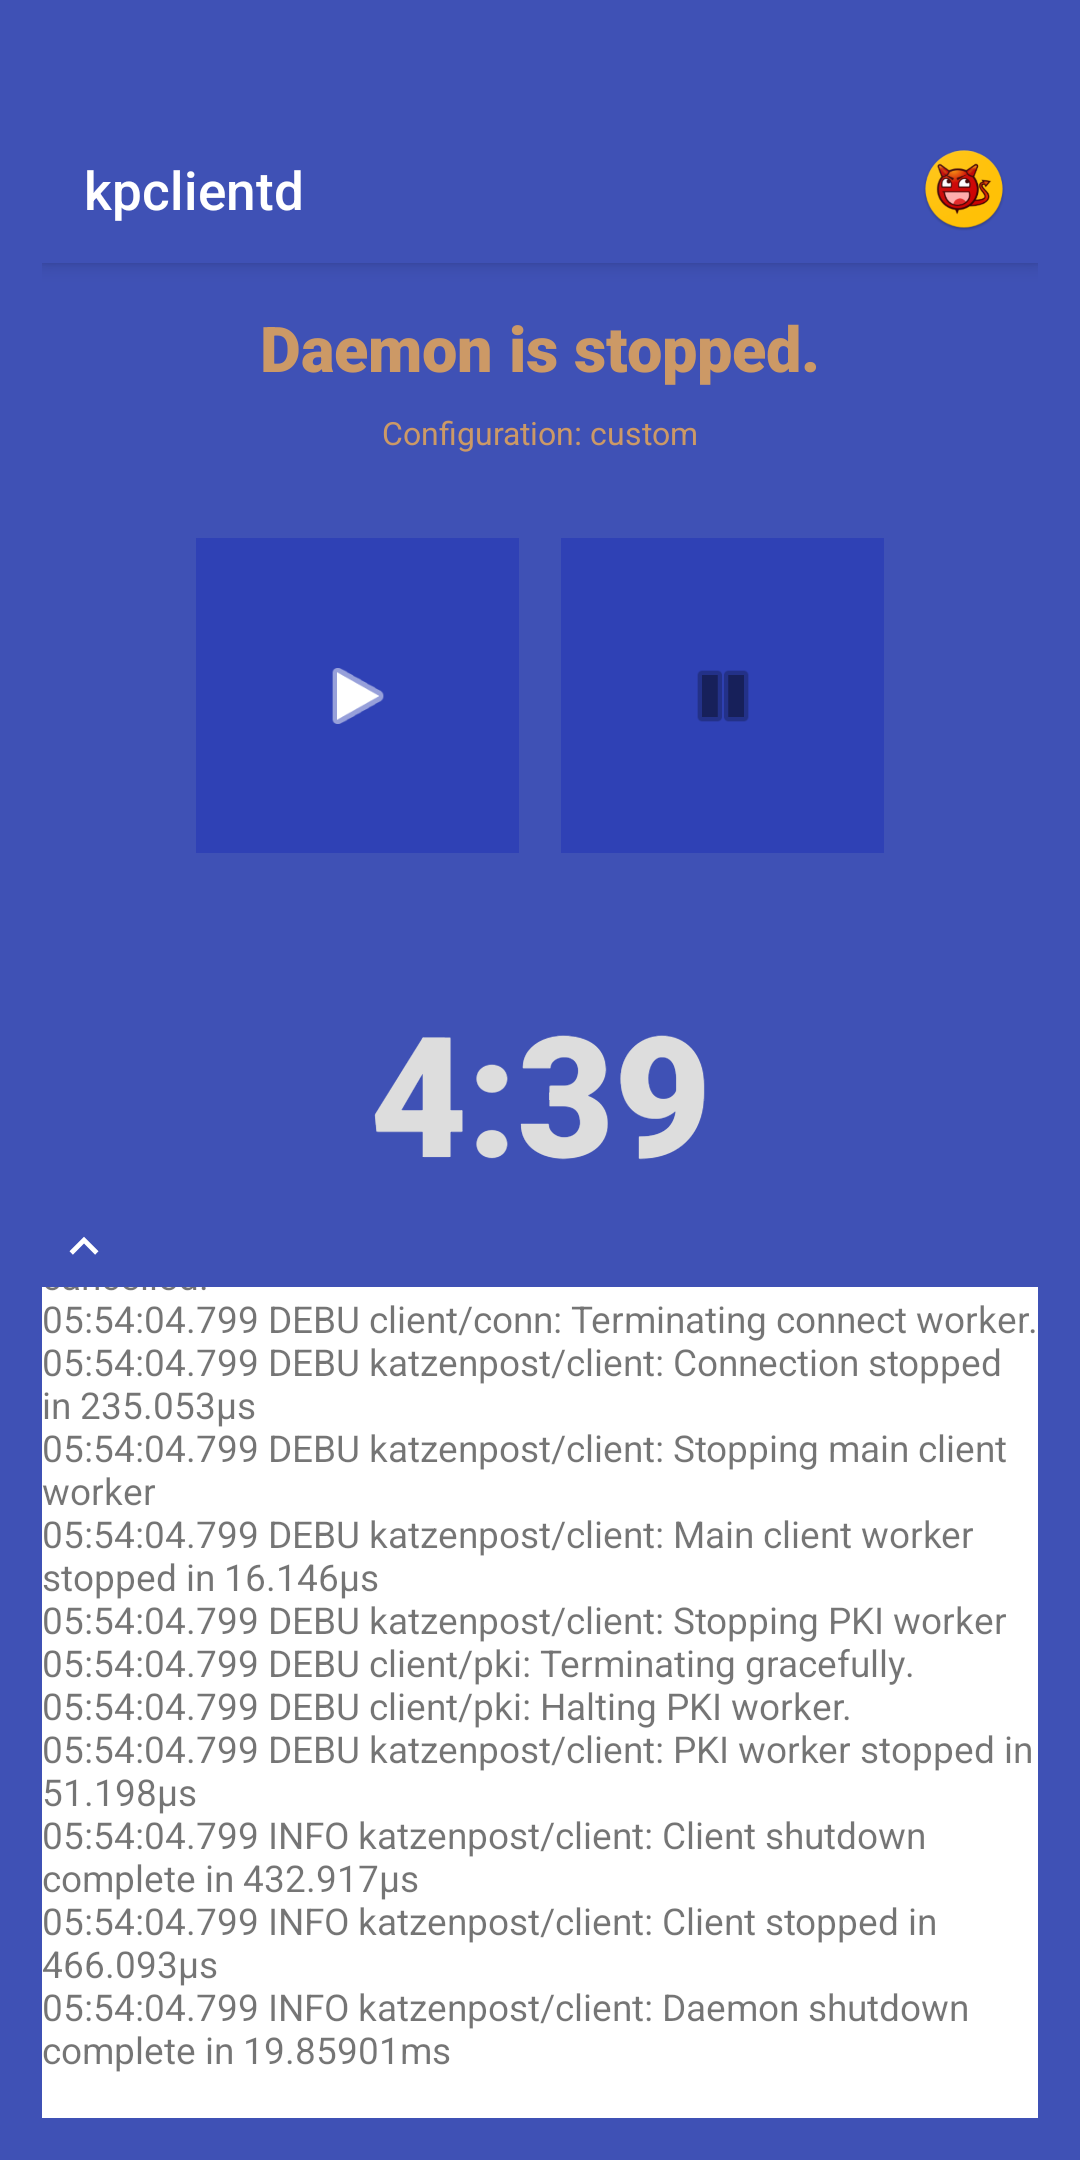
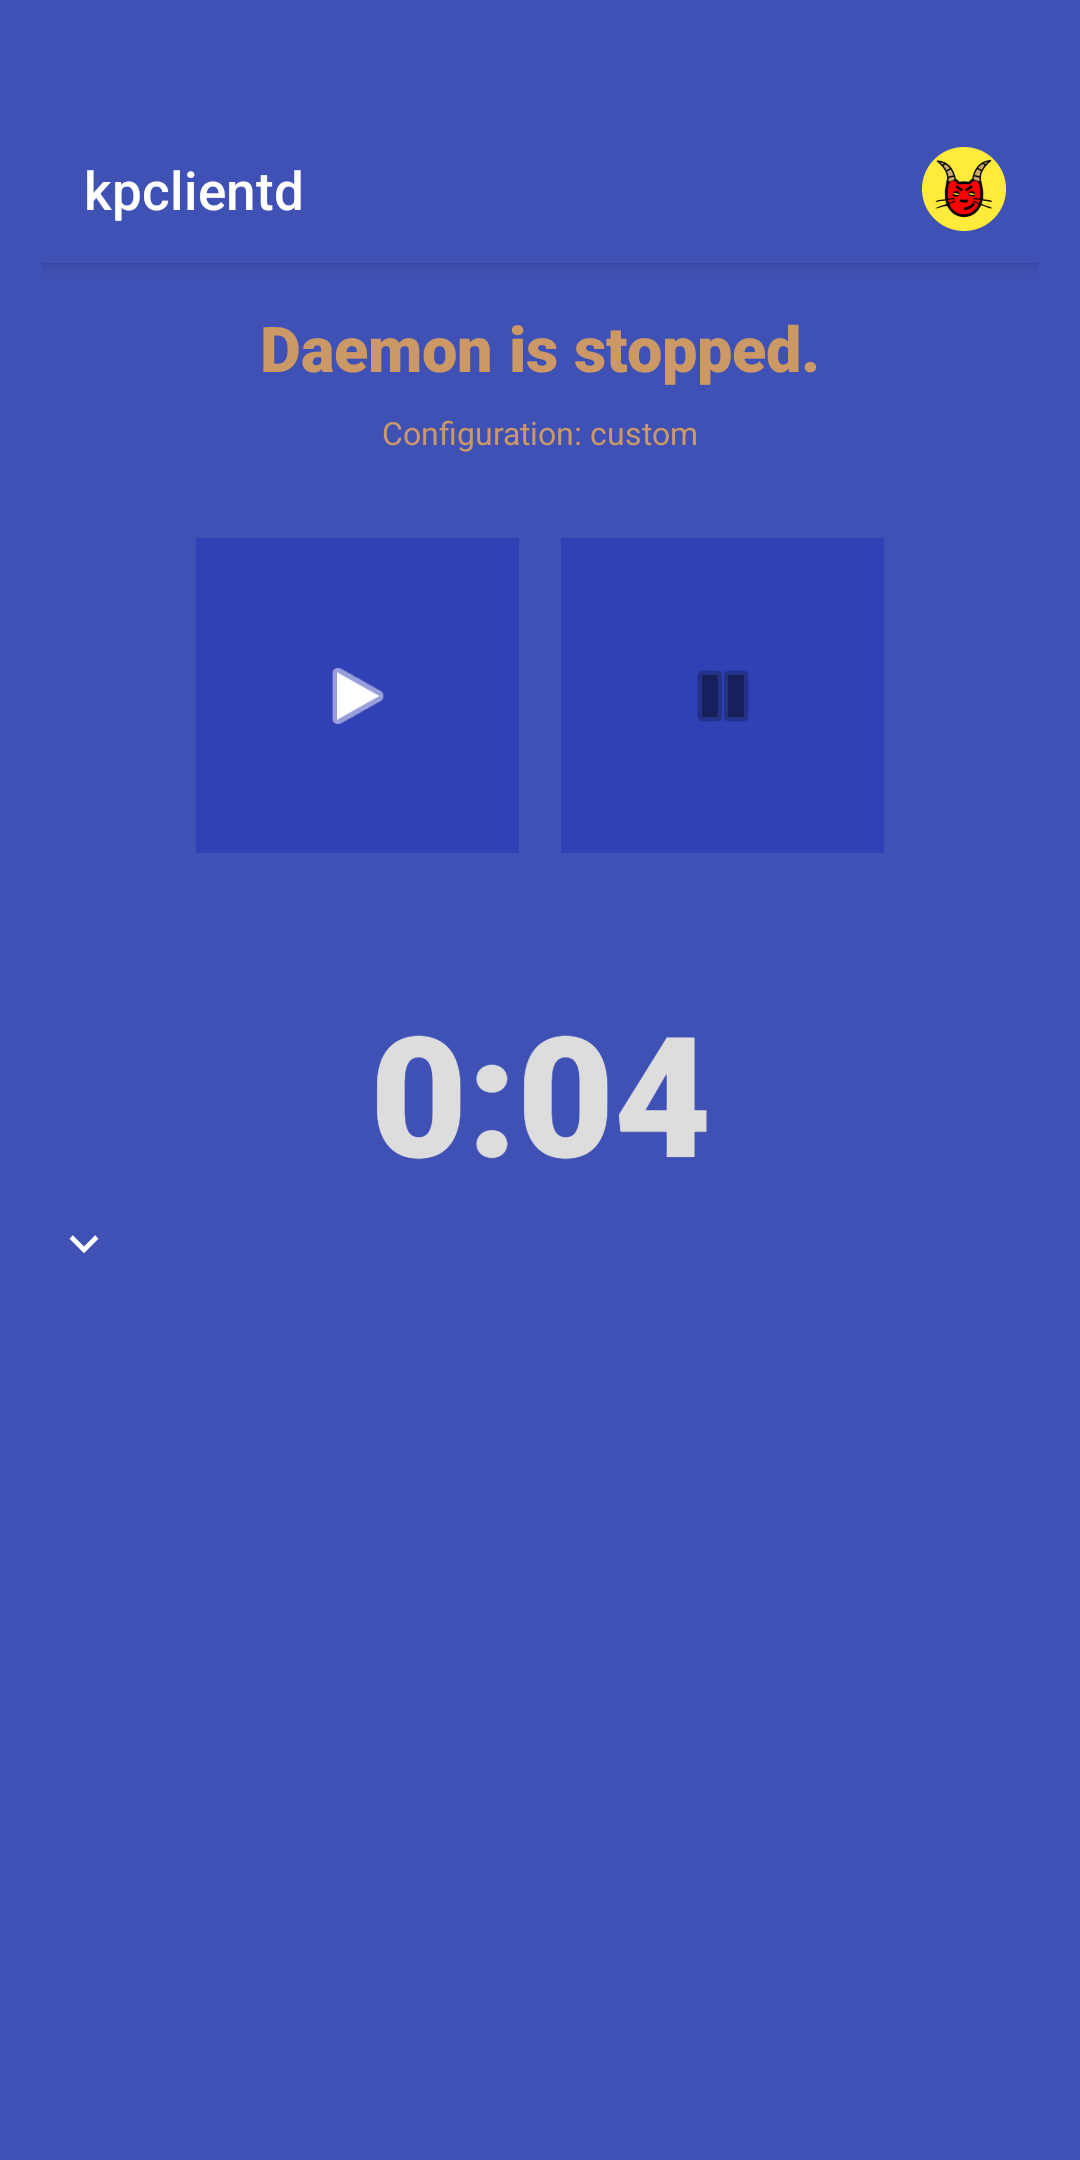
Replaced screenshots.

diff --git a/README.md b/README.md
@@ -146,8 +146,13 @@ Click on the app icon to open the GUI. Below the title line you see a line like
 
 If the app ist started it will display the following screen:
 
-<img src="images/1.png" width="250" alt="kpclientd screenshot 1">
-<img src="images/2.png" width="250" alt="kpclientd screenshot 2">
+<table>
+  <tr>
+    <td><img src="images/1.png" width="30%" alt="kpclientd screenshot 1"/></td>
+    <td><img src="images/2.png" width="30%" alt="kpclientd screenshot 2"/></td>
+    <td><img src="images/3.png" width="30%" alt="kpclientd screenshot 3"/></td>
+  </tr>
+</table>
 
 There are two buttons to start and stop the daemon and the elapsed time in
 either state is displayed below (format "&lt;hrs&gt;:&lt;mins&gt;").
